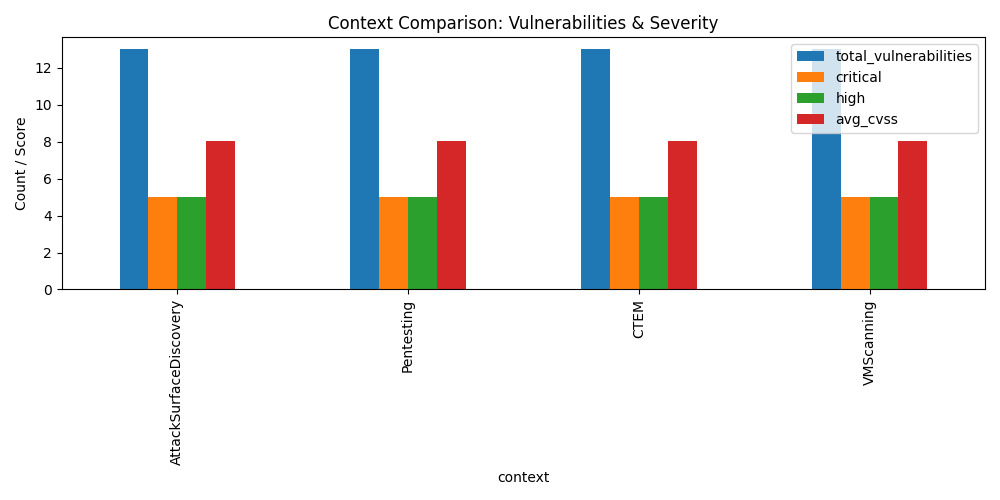
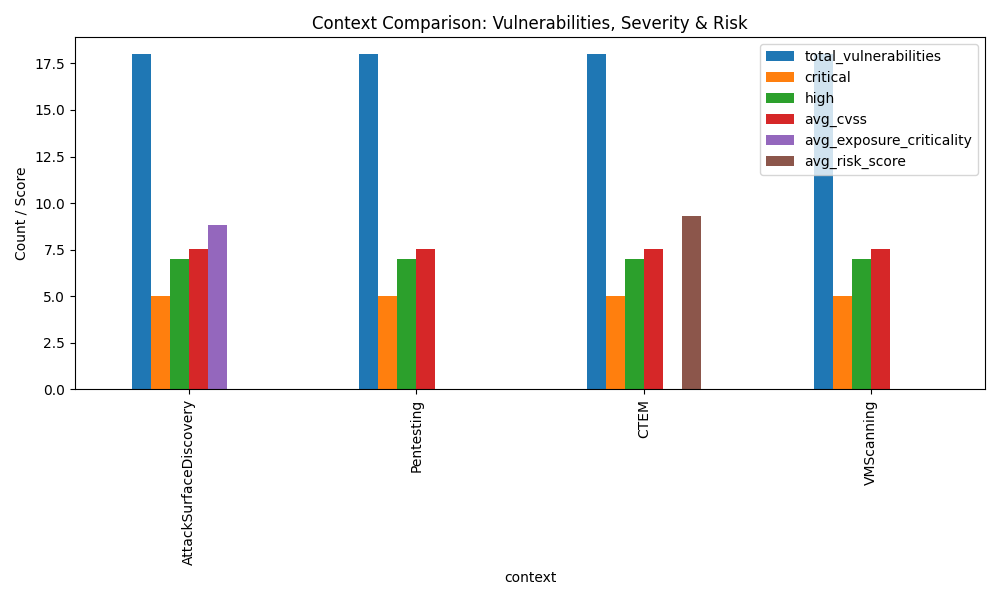
METRIC RETRIEVAL AND PLOTS WORKING
-need to do analysis, touch up code

diff --git a/scripts/attack_surface_context.py b/scripts/attack_surface_context.py
@@ -174,7 +174,7 @@ class AttackSurfaceDiscoveryAnalyzer:
         zones = {}
         
         for vuln in vulnerabilities:
-            zone = vuln_copy.get('asset_exposure', 'UNKNOWN')
+            zone = vuln.get('asset_exposure', 'UNKNOWN')
             
             if zone not in zones:
                 zones[zone] = {
@@ -258,6 +258,44 @@ class AttackSurfaceDiscoveryAnalyzer:
         report['technologies_identified'] = list(report['technologies_identified'])
         
         return report
+
+    def calculate_metrics(self, vulnerabilities):
+        """
+        Calculate high-level metrics for the attack surface context.
+        Returns a summary dict that can be used for comparisons and visualizations.
+        """
+        total = len(vulnerabilities)
+        severity_counts = {
+            'CRITICAL': len([v for v in vulnerabilities if v['severity'] == 'CRITICAL']),
+            'HIGH': len([v for v in vulnerabilities if v['severity'] == 'HIGH']),
+            'MEDIUM': len([v for v in vulnerabilities if v['severity'] == 'MEDIUM']),
+            'LOW': len([v for v in vulnerabilities if v['severity'] == 'LOW'])
+        }
+        avg_cvss = round(sum(v['cvss_score'] for v in vulnerabilities) / total, 2) if total else 0
+        avg_exposure_criticality = round(sum(v.get('exposure_criticality_score', 0) for v in vulnerabilities) / total, 2) if total else 0
+        external = len([v for v in vulnerabilities if v.get('asset_exposure') == 'EXTERNAL'])
+        internal = len([v for v in vulnerabilities if v.get('asset_exposure') == 'INTERNAL'])
+        
+        exploitable = len([v for v in vulnerabilities if v.get('exposure_criticality_score', 0) >= 7.0])
+        avg_exploit_priority = round(sum(v.get('exposure_criticality_score', 0) for v in vulnerabilities) / total, 2) if total else 0
+
+        return {
+            'context': 'AttackSurfaceDiscovery',
+            'total_vulnerabilities': total,
+            'critical': severity_counts['CRITICAL'],
+            'high': severity_counts['HIGH'],
+            'avg_cvss': avg_cvss,
+            'avg_exposure_criticality': avg_exposure_criticality,
+            'external_exposure': external,
+            'internal_exposure': internal,
+            # Exploitation concept for plot parity
+            'exploitable': exploitable,
+            'avg_exploit_priority': avg_exploit_priority,
+            'avg_exploit_probability': 0,
+            'avg_detection_confidence': 0,
+            'tickets_created': 0,
+            'open_tickets': 0
+        }
 
 
 if __name__ == '__main__':

diff --git a/scripts/pentesting_context.py b/scripts/pentesting_context.py
@@ -218,6 +218,37 @@ class PentestingContextAnalyzer:
         
         return findings
 
+    def calculate_metrics(self, vulnerabilities):
+        total = len(vulnerabilities)
+        exploited = len([v for v in vulnerabilities if v.get('successfully_exploited')])
+        avg_exploit_priority = round(sum(v.get('exploit_priority', 0) for v in vulnerabilities) / total, 2) if total else 0
+        avg_cvss = round(sum(v.get('cvss_score', 0) for v in vulnerabilities) / total, 2) if total else 0
+        severity_counts = {
+            'CRITICAL': len([v for v in vulnerabilities if v.get('severity') == 'CRITICAL']),
+            'HIGH': len([v for v in vulnerabilities if v.get('severity') == 'HIGH']),
+            'MEDIUM': len([v for v in vulnerabilities if v.get('severity') == 'MEDIUM']),
+            'LOW': len([v for v in vulnerabilities if v.get('severity') == 'LOW'])
+        }
+        return {
+            'context': 'Pentesting',
+            'total_vulnerabilities': total,
+            'critical': severity_counts['CRITICAL'],
+            'high': severity_counts['HIGH'],
+            'avg_cvss': avg_cvss,
+            # Exploitation metrics
+            'exploited': exploited,
+            'exploitable': exploited,
+            'avg_exploit_priority': avg_exploit_priority,
+            # Standardized keys for comparison
+            'avg_exploit_probability': 0,
+            'avg_exposure_criticality': 0,
+            'external_exposure': 0,
+            'internal_exposure': 0,
+            'avg_detection_confidence': 0,
+            'tickets_created': 0,
+            'open_tickets': 0
+        }
+
 
 if __name__ == '__main__':
     from vulnerability_scanner import VulnerabilityScanner

diff --git a/scripts/vm_scanning_context.py b/scripts/vm_scanning_context.py
@@ -219,6 +219,36 @@ class VMScanningContextAnalyzer:
         
         return trend_analysis
 
+    def calculate_metrics(self, vulnerabilities, tickets=None):
+        total = len(vulnerabilities)
+        critical = len([v for v in vulnerabilities if v.get('severity') == 'CRITICAL'])
+        high = len([v for v in vulnerabilities if v.get('severity') == 'HIGH'])
+        avg_cvss = round(sum(v.get('cvss_score', 0) for v in vulnerabilities) / total, 2) if total else 0
+        avg_confidence = round(sum(v.get('detection_confidence', 0) for v in vulnerabilities) / total, 2) if total else 0
+        tickets_created = len(tickets) if tickets is not None else 0
+        open_tickets = len([t for t in tickets if t.get('status') == 'OPEN']) if tickets is not None else 0
+
+        avg_exploit_priority = round(sum(v.get('priority_score', 0) for v in vulnerabilities) / total, 2) if total else 0
+        exploitable = len([v for v in vulnerabilities if v.get('priority_score', 0) >= 7.0])
+
+        return {
+            'context': 'VMScanning',
+            'total_vulnerabilities': total,
+            'critical': critical,
+            'high': high,
+            'avg_cvss': avg_cvss,
+            'avg_detection_confidence': avg_confidence,
+            'tickets_created': tickets_created,
+            'open_tickets': open_tickets,
+            # Exploitation-aligned metrics for comparison
+            'exploitable': exploitable,
+            'avg_exploit_priority': avg_exploit_priority,
+            'avg_exploit_probability': 0,
+            'avg_exposure_criticality': 0,
+            'external_exposure': 0,
+            'internal_exposure': 0
+        }
+
 
 if __name__ == '__main__':
     from vulnerability_scanner import VulnerabilityScanner

diff --git a/scripts/ctem_context.py b/scripts/ctem_context.py
@@ -175,6 +175,35 @@ class CTEMContextAnalyzer:
         
         return attack_paths
 
+    def calculate_metrics(self, vulnerabilities):
+        total = len(vulnerabilities)
+        critical = len([v for v in vulnerabilities if v.get('severity') == 'CRITICAL'])
+        high = len([v for v in vulnerabilities if v.get('severity') == 'HIGH'])
+        avg_cvss = round(sum(v.get('cvss_score', 0) for v in vulnerabilities) / total, 2) if total else 0
+        avg_risk = round(sum(v.get('risk_score', 0) for v in vulnerabilities) / total, 2) if total else 0
+        exploitable = len([v for v in vulnerabilities if v.get('exploitable')])
+        avg_exploit_prob = round(sum(v.get('exploit_probability', 0) for v in vulnerabilities) / total, 2) if total else 0
+
+        return {
+            'context': 'CTEM',
+            'total_vulnerabilities': total,
+            'critical': critical,
+            'high': high,
+            'avg_cvss': avg_cvss,
+            'avg_risk_score': avg_risk,
+            'exploitable': exploitable,
+            'avg_exploit_probability': avg_exploit_prob,
+            # Standardized keys for comparison
+            'avg_exploit_priority': 0,
+            'avg_exposure_criticality': 0,
+            'external_exposure': 0,
+            'internal_exposure': 0,
+            'avg_detection_confidence': 0,
+            'tickets_created': 0,
+            'open_tickets': 0
+        }
+
+
 if __name__ == '__main__':
     # Test
     from vulnerability_scanner import VulnerabilityScanner